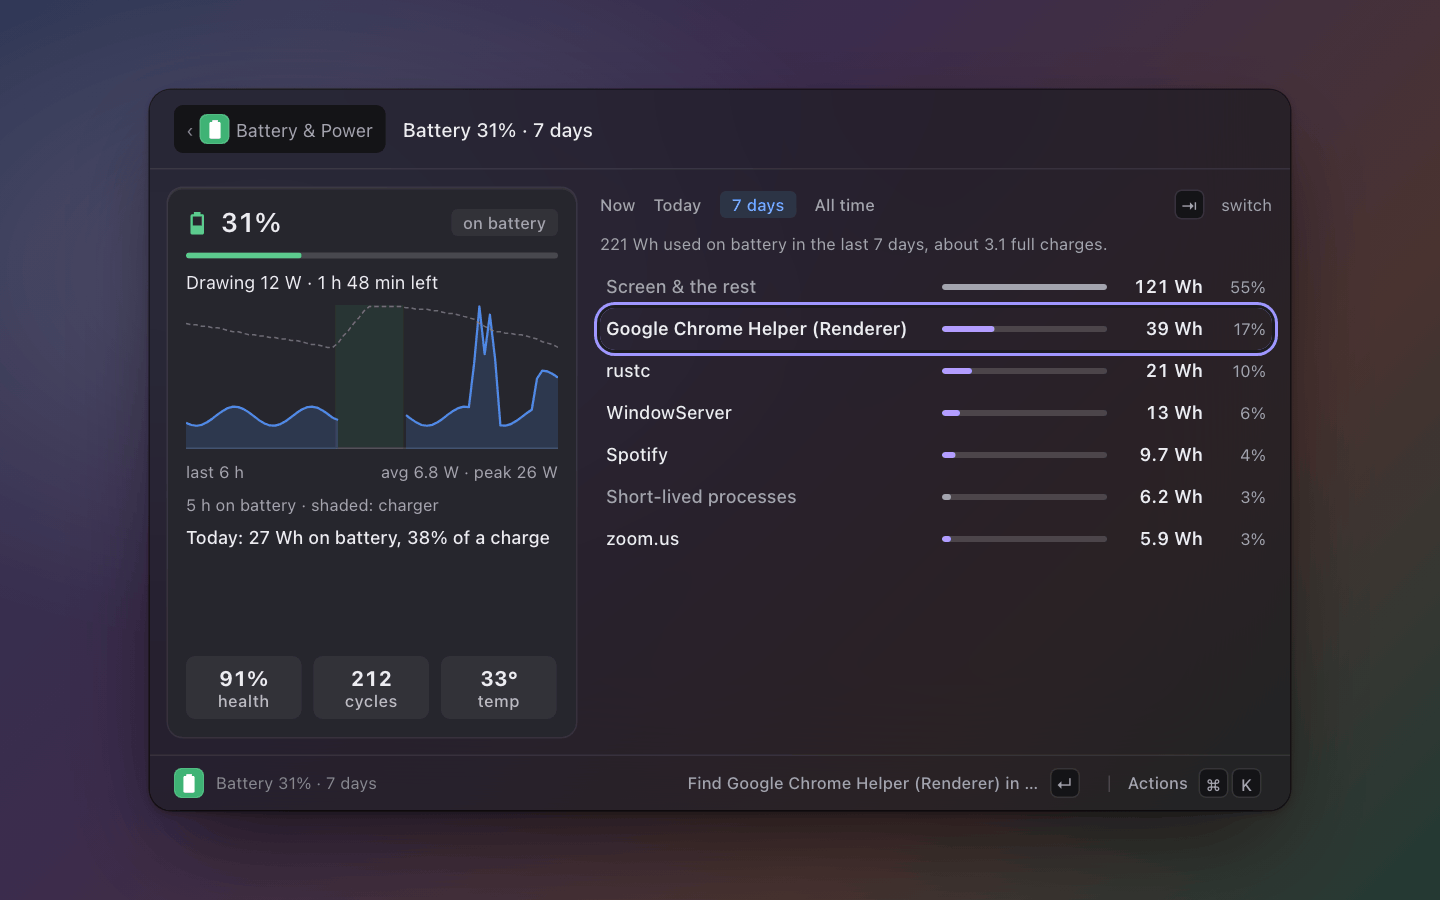
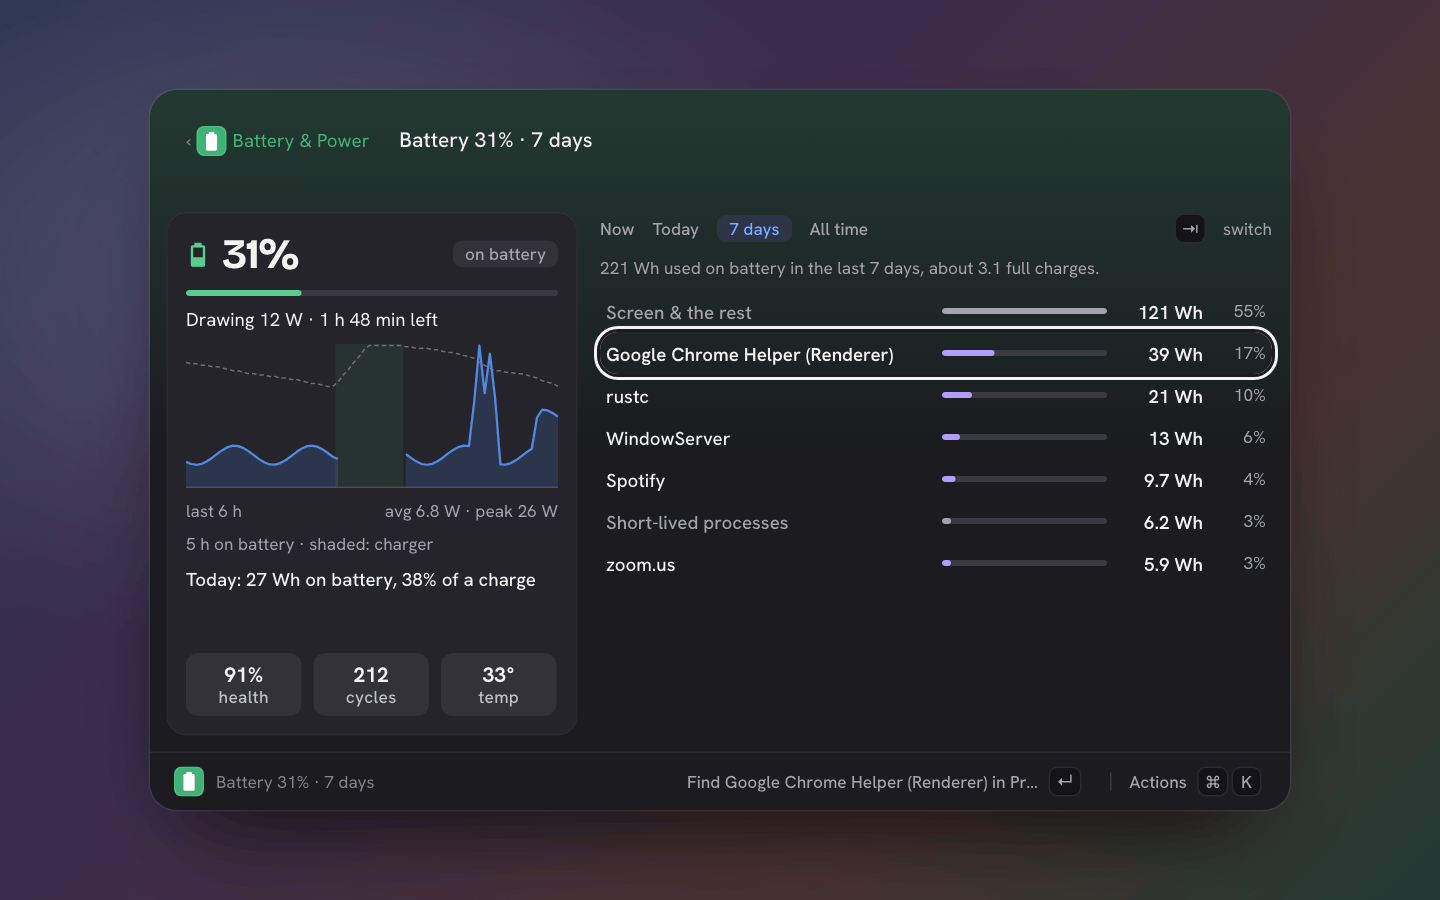
power: the level leads as a headline; the popover's title says where the power comes from and the alert sits under the level; the tooltip's first line is the plain sentence (Drawing 12 W · 1 h 48 min left); four processes on Now so the panel fits in Ink

diff --git a/power/view.ts b/power/view.ts
@@ -34,7 +34,8 @@ export type Pop = { snap: Snapshot; hour: Point[]; today?: Usage[]; theme?: Them
 export const LOW = 20, CRITICAL = 10;
 export const HISTORY_S = 6 * 3600;
 const SLOTS = 72; // 5 min each over six hours
-const NOW_ROWS = 5, NOW_ROWS_COMPACT = 4, USAGE_ROWS = 7, USAGE_ROWS_COMPACT = 5;
+// Four processes under the split bar and the alert fit the panel with the Kept awake line under them.
+const NOW_ROWS = 4, NOW_ROWS_COMPACT = 4, USAGE_ROWS = 7, USAGE_ROWS_COMPACT = 5;
 const LEFT_W = 272, CARD_PAD = 12, CHART_H = 96;
 const G = { bolt: "\u{f140b}", battery: "\u{f0079}", alert: "\u{f0026}", lock: "\u{f033e}", dot: "\u{f111}", chip: "\u{f061a}", screen: "\u{f0379}", plug: "\u{f06a5}", awake: "\u{f0f36}" };
 const RAMP: [number, string][] = [[90, "\u{f0079}"], [70, "\u{f0081}"], [50, "\u{f007f}"], [30, "\u{f007d}"], [20, "\u{f007b}"], [0, "\u{f007a}"]];
@@ -136,15 +137,15 @@ function chart(points: Point[], o: { span: number; slots: number; width: number;
 const heading = (key: string, title: string, extra?: ViewNode): ViewNode => row([text(title, { size: "xs", weight: "semibold", color: "muted" }), ...(extra ? [{ type: "spacer" as const }, extra] : [])], { key: `h-${key}`, gap: 1, minHeight: 18 });
 const tint = (color: TagColor, theme: Theme, alpha: string) => `${ink(color, theme)}${alpha}` as `#${string}`;
 
-function head(s: Snapshot, big: "xl" | "lg" = "xl"): ViewNode[] {
+/** The level leads as the headline, the glyph beside it; `badge` adds where the power comes from (the popover says that in its title instead). */
+function head(s: Snapshot, badge = true): ViewNode[] {
   const c = levelColor(s);
   return [
     row([
       text(glyphOf(s), { key: "glyph", style: "glyph", size: "lg", color: c }),
-      text(`${s.percent}%`, { key: "percent", style: "number", size: big, weight: "semibold" }),
-      { type: "spacer" },
-      { type: "badge", key: "state", text: stateWord(s), color: onBattery(s) ? (c === "green" ? "grey" : c) : "green" },
-    ], { key: "head", gap: 2 }),
+      text(`${s.percent}%`, { key: "percent", style: "headline" }),
+      ...(badge ? [{ type: "spacer" } as const, { type: "badge", key: "state", text: stateWord(s), color: onBattery(s) ? (c === "green" ? "grey" : c) : "green" } as const] : []),
+    ], { key: "head", gap: 2, align: "center" }),
     { type: "progress", key: "level", value: s.percent / 100, color: c },
     text(sentence(s), { key: "sentence", style: "body", size: "sm" }),
   ];
@@ -325,7 +326,7 @@ export function renderDash(d: Dash): View {
     healthTiles(s, LEFT_W - 2 * CARD_PAD),
   ], { key: "left", width: LEFT_W, padding: 3, gap: 2, surface: "elevated", radius: true });
   const tree = d.compact
-    ? column([...head(s, "lg"), right], { key: "dash", padding: 3, gap: 2 })
+    ? column([...head(s), right], { key: "dash", padding: 3, gap: 2 })
     : row([left, right], { key: "dash", padding: 3, gap: 4, align: "stretch" });
   return { title: `Battery ${s.percent}% · ${tabTitle(d.tab)}`, id: "dash", keys: "actions", actions: dashActions(d), tree };
 }
@@ -348,14 +349,14 @@ export function renderPopover(p: Pop): View {
     text(x.watts !== undefined ? watts(x.watts) : `${Math.round(x.share)}%`, { style: "number", size: "xs", width: 44, align: "end" }),
   ], { key: `pp-${x.name}`, gap: 2, minHeight: 22, transition: { enter: "fade", exit: "fade" } });
   return {
-    title: "Battery",
+    title: stateWord(s).replace(/^./, (c) => c.toUpperCase()),
     id: "power",
     keys: "actions",
     actions: [{ id: "palette", title: "Open Battery & Power", shortcut: "enter" }, { id: "settings", title: "Open Battery settings", shortcut: "s" }],
     tree: column([
-      ...head(s),
-      ...(s.watched && p.hour.some((x) => !x.ext && x.w > 0) ? chart(p.hour, { span: 3600, slots: 60, width: POP_W, height: 36, theme: p.theme, now, color: levelColor(s) === "green" ? "blue" : levelColor(s), key: "hour" }) : []),
+      ...head(s, false),
       ...alertCards(s, p.theme),
+      ...(s.watched && p.hour.some((x) => !x.ext && x.w > 0) ? chart(p.hour, { span: 3600, slots: 60, width: POP_W, height: 36, theme: p.theme, now, color: levelColor(s) === "green" ? "blue" : levelColor(s), key: "hour" }) : []),
       ...(top.length ? [heading("procs", "Using power now"), ...top.map(procLine)] : []),
       ...(today && today.total >= 0.05 ? [text(`Today: ${wh(today.total)} on battery${heaviest ? ` · most by ${truncate(nameOf(heaviest.name), 22)} (${wh(heaviest.wh)})` : ""}`, { key: "today", style: "muted", size: "xs" })] : []),
       ...(!s.watched ? [text("Install the power watcher to see the draw and what uses it.", { key: "unwatched", style: "muted", size: "xs" })] : []),

diff --git a/power/index.ts b/power/index.ts
@@ -6,7 +6,7 @@
 import { dirname, join } from "node:path";
 import { home, now, settings, state, text, toast, truncate, view as liveView, type BarItem, type Ctx, type Effect, type Extension, type View } from "@zcag/pal";
 import { points, snapshot, tailSamples, usage, type Snapshot, type Usage } from "./data.ts";
-import { focusedName, glyphOf, HISTORY_S, LOW, renderDash, renderPopover, rowCount, TABS, type Dash, type Tab } from "./view.ts";
+import { focusedName, glyphOf, HISTORY_S, LOW, renderDash, renderPopover, rowCount, sentence, TABS, type Dash, type Tab } from "./view.ts";
 
 export { parsePmset, parseUpower } from "./data.ts";
 
@@ -55,7 +55,6 @@ async function windowOf(tab: Exclude<Tab, "now">): Promise<Usage[] | "missing"> 
 
 // ---- the strip ---------------------------------------------------------------
 
-const stateLabel = (s: Snapshot) => (s.status === "charging" ? "Charging" : s.status === "discharging" ? "Discharging" : s.status === "charged" ? "Charged" : "Not charging");
 /** Waste interrupts whatever the level is; a bare draw only counts on battery. */
 const loud = (s: Snapshot) => !!s.alerts.length || (s.source === "Battery Power" && (s.watts ?? 0) >= LOUD_WATTS);
 /** When a rule fired it named the culprit; otherwise only a dominant background process is worth the width. */
@@ -96,7 +95,8 @@ async function barItem(): Promise<BarItem> {
   start();
   const s = await read().catch(() => undefined);
   if (!s) return { hidden: true, states: { level: null, charging: null, draw: null, alert: null } };
-  const tooltip = [s.source, stateLabel(s), s.remaining, s.watts !== undefined && s.source === "Battery Power" ? `${s.watts.toFixed(1)} W draw` : undefined, s.alerts[0]?.message].filter(Boolean).join(" · ");
+  // The first line stands alone (a glance card shows it under the title): what it is doing and for how long; the alert on its own line.
+  const tooltip = [sentence(s), s.alerts[0]?.message].filter(Boolean).join("\n");
   const menu = { view: await popover(s) };
   const alert = s.alerts.some((a) => a.level === "crit") ? "crit" : s.alerts.length ? "warn" : null;
   return { icon: glyphOf(s), title: title(s), tooltip, click: "open", menu, empty: { icon: glyphOf(s), title: title(s), tooltip, menu }, states: { level: s.percent, charging: s.source !== "Battery Power", draw: s.source === "Battery Power" ? (s.watts ?? 0) : 0, alert } };

diff --git a/test/power.test.ts b/test/power.test.ts
@@ -42,8 +42,12 @@ describe("power: the strip", () => {
   test("the watcher's warning names the culprit; a click opens the palette, hover the popover", async () => {
     const item = await host.render("power", "battery") as any;
     expect(item).toMatchObject({ icon: "\u{f007d}", title: "31% · 12.4W · background-burn", states: { level: 31, charging: false, draw: 12.4, alert: "warn" }, click: "open" });
-    expect(item.tooltip).toBe("Battery Power · Discharging · 1:48 remaining · 12.4 W draw · Google Chrome Helper (Renderer) is using power in the background");
-    expect(texts(item.menu.view)).toEqual(expect.arrayContaining(["31%", "on battery", "Drawing 12 W · 1 h 48 min left", "Using power now", "Google Chrome Helper (Renderer) is using power in the background", "2.1 W"]));
+    // The tooltip's first line stands alone on a glance card; the alert on the next.
+    expect(item.tooltip).toBe("Drawing 12 W · 1 h 48 min left\nGoogle Chrome Helper (Renderer) is using power in the background");
+    // The level leads as the headline; where the power comes from is the popover's title.
+    expect(item.menu.view.title).toBe("On battery");
+    expect(texts(item.menu.view)).not.toContain("on battery");
+    expect(texts(item.menu.view)).toEqual(expect.arrayContaining(["31%", "Drawing 12 W · 1 h 48 min left", "Using power now", "Google Chrome Helper (Renderer) is using power in the background", "2.1 W"]));
     expect(await host.request<any>("bar/open", { extension: "power", id: "battery" })).toEqual({ push: { extension: "power", palette: "power" } });
   });
 
